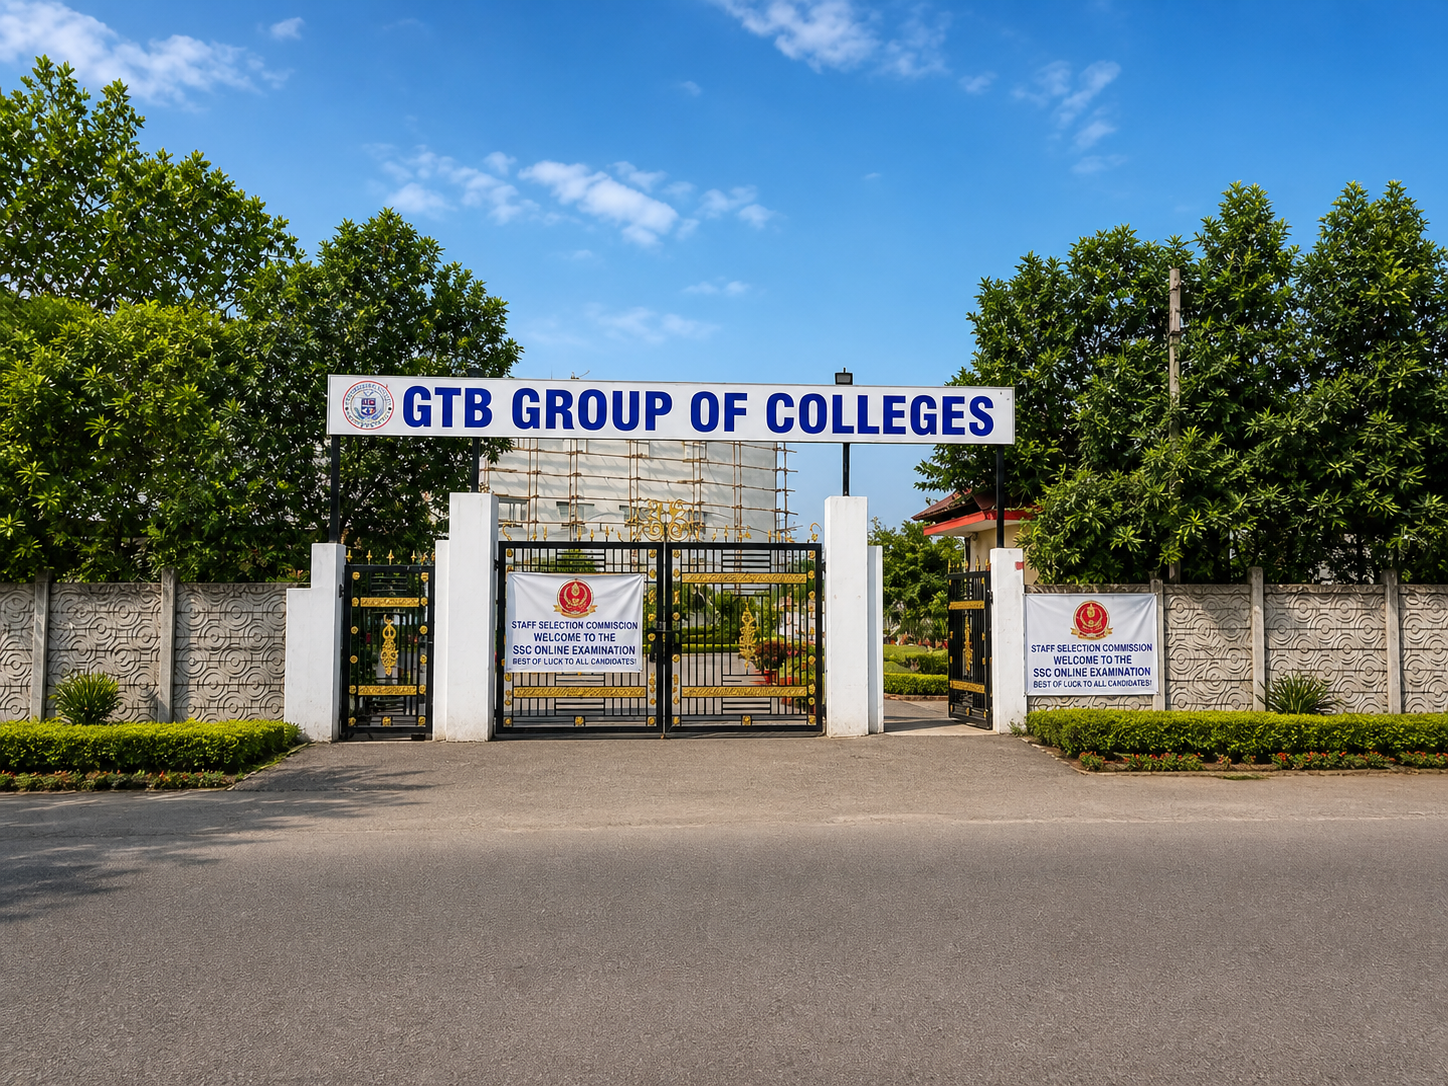
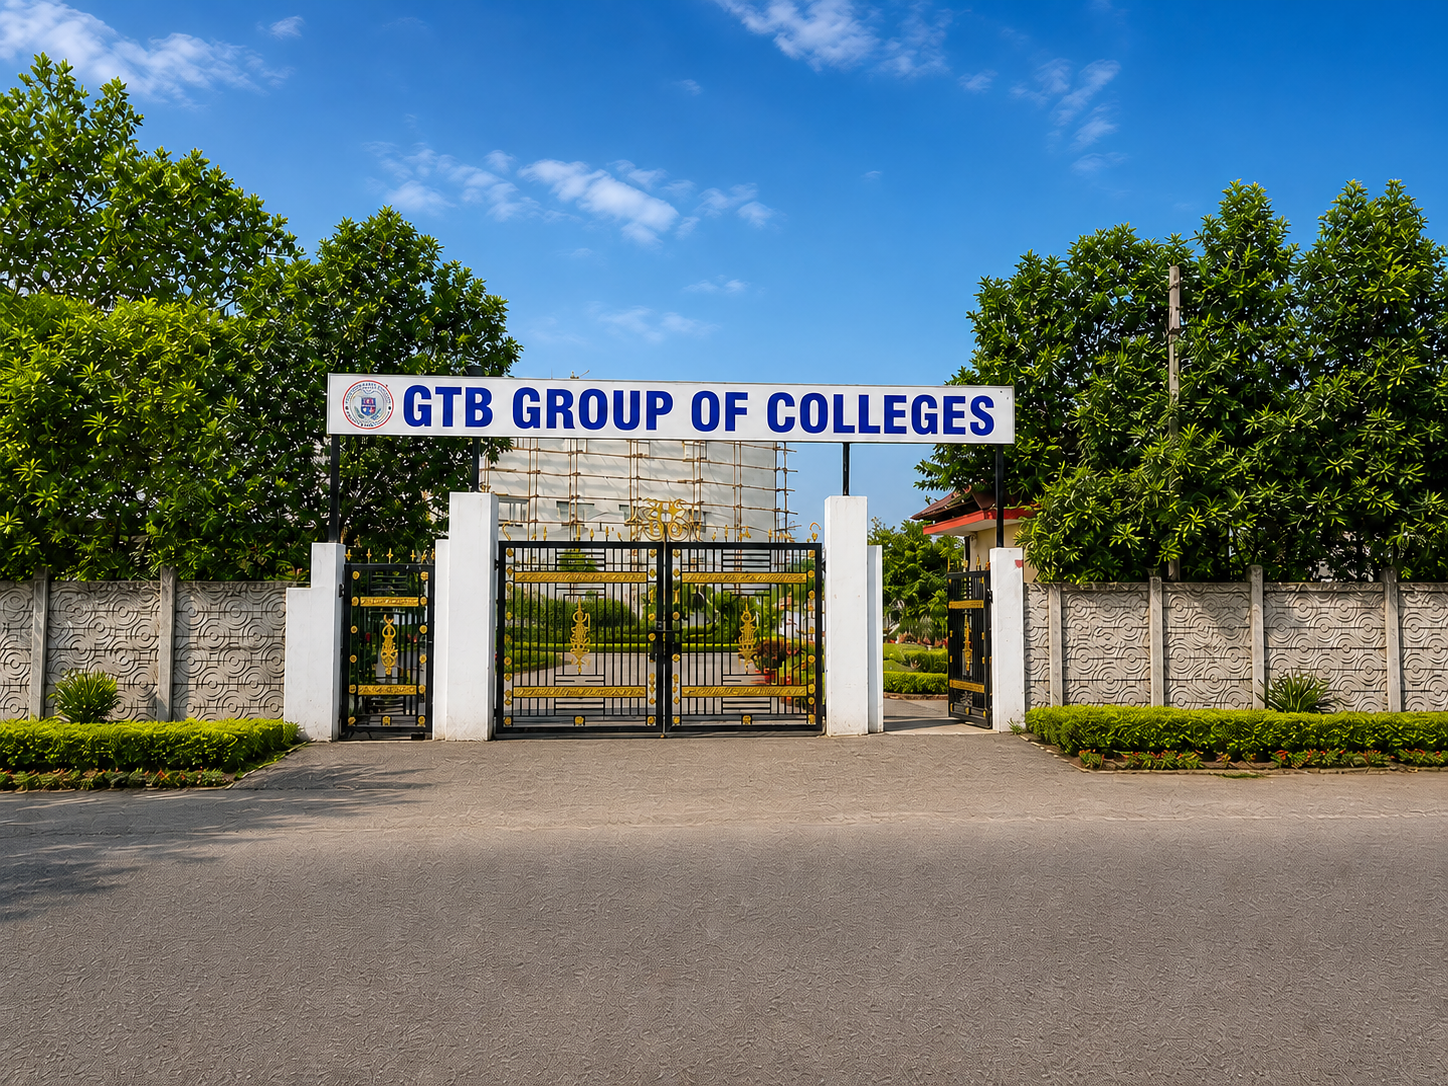
feat: add Courses & Fees FAQ section to Introduction and main pages

diff --git a/src/app/about/introduction/page.tsx b/src/app/about/introduction/page.tsx
@@ -90,6 +90,117 @@ export default function IntroductionPage() {
           </div>
         </div>
       </section>
+
+      {/* ── Courses & Fees FAQ Section ─────────────────────────────────── */}
+<section className="py-20 px-4 md:px-8 bg-cream">
+  <div className="max-w-6xl mx-auto">
+
+    {/* Heading */}
+    <div className="text-center mb-14">
+      <h2 className="text-4xl md:text-5xl font-serif text-navy mb-4">
+        FAQs
+      </h2>
+      <p className="text-gray-600 text-lg">
+        Everything you need to know about our regular and private courses.
+      </p>
+    </div>
+
+    {/* Regular Courses */}
+    <div className="mb-16">
+      <h3 className="text-2xl font-bold text-navy mb-6 border-l-4 border-gold pl-4">
+        Regular Courses
+      </h3>
+
+      <div className="grid md:grid-cols-2 gap-6">
+
+        <div className="bg-white p-6 rounded-lg shadow-md hover:shadow-xl transition">
+          <h4 className="text-lg font-semibold text-navy mb-2">
+            What courses are available under regular programs?
+          </h4>
+          <p className="text-gray-600">
+            We offer B.A., B.Com, B.Sc (Maths), BCA, PGDCA, DCA, and PGDBM under regular mode.
+          </p>
+        </div>
+
+        <div className="bg-white p-6 rounded-lg shadow-md hover:shadow-xl transition">
+          <h4 className="text-lg font-semibold text-navy mb-2">
+            What is the fee structure for regular courses?
+          </h4>
+          <p className="text-gray-600">
+            Fees range from ₹12,000 to ₹18,500 depending on the course. BCA and PGDCA have higher fees due to technical curriculum.
+          </p>
+        </div>
+
+        <div className="bg-white p-6 rounded-lg shadow-md hover:shadow-xl transition">
+          <h4 className="text-lg font-semibold text-navy mb-2">
+            How many seats are available?
+          </h4>
+          <p className="text-gray-600">
+            Seat availability varies by course, ranging from 30 to 120 seats.
+          </p>
+        </div>
+
+        <div className="bg-white p-6 rounded-lg shadow-md hover:shadow-xl transition">
+          <h4 className="text-lg font-semibold text-navy mb-2">
+            Which course is best for IT careers?
+          </h4>
+          <p className="text-gray-600">
+            BCA and PGDCA are the best options for students interested in IT, software development, and computer applications.
+          </p>
+        </div>
+
+      </div>
+    </div>
+
+    {/* Private Courses */}
+    <div>
+      <h3 className="text-2xl font-bold text-navy mb-6 border-l-4 border-gold pl-4">
+        Private Courses
+      </h3>
+
+      <div className="grid md:grid-cols-2 gap-6">
+
+        <div className="bg-white p-6 rounded-lg shadow-md hover:shadow-xl transition">
+          <h4 className="text-lg font-semibold text-navy mb-2">
+            What are private courses?
+          </h4>
+          <p className="text-gray-600">
+            Private courses allow students to complete their degrees without attending regular classes.
+          </p>
+        </div>
+
+        <div className="bg-white p-6 rounded-lg shadow-md hover:shadow-xl transition">
+          <h4 className="text-lg font-semibold text-navy mb-2">
+            Which private courses are available?
+          </h4>
+          <p className="text-gray-600">
+            Available courses include B.A., B.Com, B.Sc (Bio/Maths), M.A. (various subjects), and M.Sc (Maths).
+          </p>
+        </div>
+
+        <div className="bg-white p-6 rounded-lg shadow-md hover:shadow-xl transition">
+          <h4 className="text-lg font-semibold text-navy mb-2">
+            Who should choose private courses?
+          </h4>
+          <p className="text-gray-600">
+            Students who are working, preparing for exams, or unable to attend regular classes can opt for private courses.
+          </p>
+        </div>
+
+        <div className="bg-white p-6 rounded-lg shadow-md hover:shadow-xl transition">
+          <h4 className="text-lg font-semibold text-navy mb-2">
+            Is the degree valid for jobs?
+          </h4>
+          <p className="text-gray-600">
+            Yes, degrees obtained through private mode are valid and recognized as per university norms.
+          </p>
+        </div>
+
+      </div>
+    </div>
+
+  </div>
+</section>
     </>
   );
 }

diff --git a/src/app/page.tsx b/src/app/page.tsx
@@ -536,6 +536,117 @@ gsap.fromTo(
         </div>
       </section>
 
+      {/* ── Courses & Fees FAQ Section ─────────────────────────────────── */}
+<section className="py-20 px-4 md:px-8 bg-cream">
+  <div className="max-w-6xl mx-auto">
+
+    {/* Heading */}
+    <div className="text-center mb-14">
+      <h2 className="text-4xl md:text-5xl font-serif text-navy mb-4">
+       FAQs
+      </h2>
+      <p className="text-gray-600 text-lg">
+        Everything you need to know about our regular and private courses.
+      </p>
+    </div>
+
+    {/* Regular Courses */}
+    <div className="mb-16">
+      <h3 className="text-2xl font-bold text-navy mb-6 border-l-4 border-gold pl-4">
+        Regular Courses
+      </h3>
+
+      <div className="grid md:grid-cols-2 gap-6">
+
+        <div className="bg-white p-6 rounded-lg shadow-md hover:shadow-xl transition">
+          <h4 className="text-lg font-semibold text-navy mb-2">
+            What courses are available under regular programs?
+          </h4>
+          <p className="text-gray-600">
+            We offer B.A., B.Com, B.Sc (Maths), BCA, PGDCA, DCA, and PGDBM under regular mode.
+          </p>
+        </div>
+
+        <div className="bg-white p-6 rounded-lg shadow-md hover:shadow-xl transition">
+          <h4 className="text-lg font-semibold text-navy mb-2">
+            What is the fee structure for regular courses?
+          </h4>
+          <p className="text-gray-600">
+            Fees range from ₹12,000 to ₹18,500 depending on the course. BCA and PGDCA have higher fees due to technical curriculum.
+          </p>
+        </div>
+
+        <div className="bg-white p-6 rounded-lg shadow-md hover:shadow-xl transition">
+          <h4 className="text-lg font-semibold text-navy mb-2">
+            How many seats are available?
+          </h4>
+          <p className="text-gray-600">
+            Seat availability varies by course, ranging from 30 to 120 seats.
+          </p>
+        </div>
+
+        <div className="bg-white p-6 rounded-lg shadow-md hover:shadow-xl transition">
+          <h4 className="text-lg font-semibold text-navy mb-2">
+            Which course is best for IT careers?
+          </h4>
+          <p className="text-gray-600">
+            BCA and PGDCA are the best options for students interested in IT, software development, and computer applications.
+          </p>
+        </div>
+
+      </div>
+    </div>
+
+    {/* Private Courses */}
+    <div>
+      <h3 className="text-2xl font-bold text-navy mb-6 border-l-4 border-gold pl-4">
+        Private Courses
+      </h3>
+
+      <div className="grid md:grid-cols-2 gap-6">
+
+        <div className="bg-white p-6 rounded-lg shadow-md hover:shadow-xl transition">
+          <h4 className="text-lg font-semibold text-navy mb-2">
+            What are private courses?
+          </h4>
+          <p className="text-gray-600">
+            Private courses allow students to complete their degrees without attending regular classes.
+          </p>
+        </div>
+
+        <div className="bg-white p-6 rounded-lg shadow-md hover:shadow-xl transition">
+          <h4 className="text-lg font-semibold text-navy mb-2">
+            Which private courses are available?
+          </h4>
+          <p className="text-gray-600">
+            Available courses include B.A., B.Com, B.Sc (Bio/Maths), M.A. (various subjects), and M.Sc (Maths).
+          </p>
+        </div>
+
+        <div className="bg-white p-6 rounded-lg shadow-md hover:shadow-xl transition">
+          <h4 className="text-lg font-semibold text-navy mb-2">
+            Who should choose private courses?
+          </h4>
+          <p className="text-gray-600">
+            Students who are working, preparing for exams, or unable to attend regular classes can opt for private courses.
+          </p>
+        </div>
+
+        <div className="bg-white p-6 rounded-lg shadow-md hover:shadow-xl transition">
+          <h4 className="text-lg font-semibold text-navy mb-2">
+            Is the degree valid for jobs?
+          </h4>
+          <p className="text-gray-600">
+            Yes, degrees obtained through private mode are valid and recognized as per university norms.
+          </p>
+        </div>
+
+      </div>
+    </div>
+
+  </div>
+</section>
+
       {/* ── Admission CTA ─────────────────────────────────── */}
       <section className="py-24 px-4 md:px-8 bg-cream text-center overflow-hidden relative">
         {/* Animated Background Blobs */}